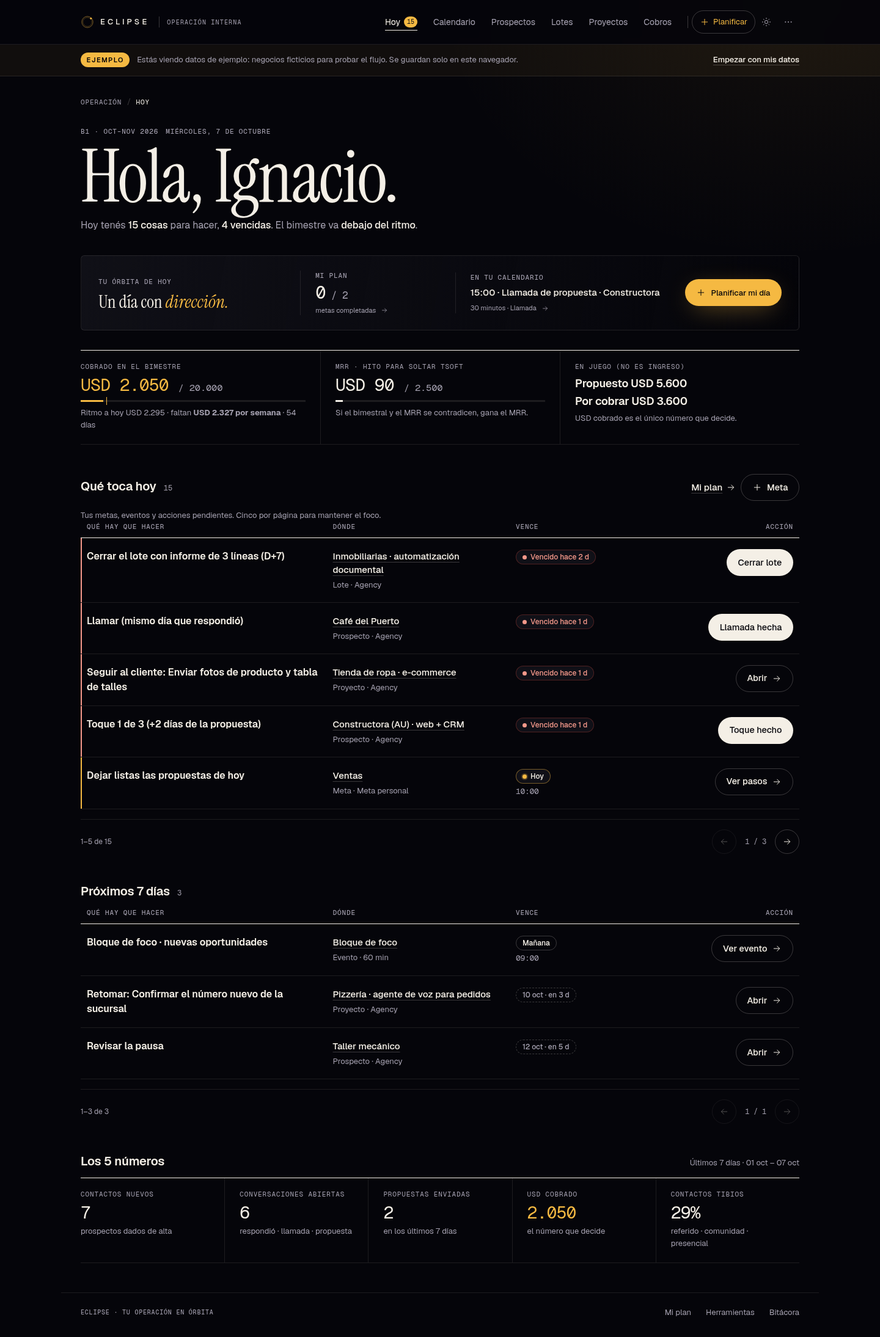
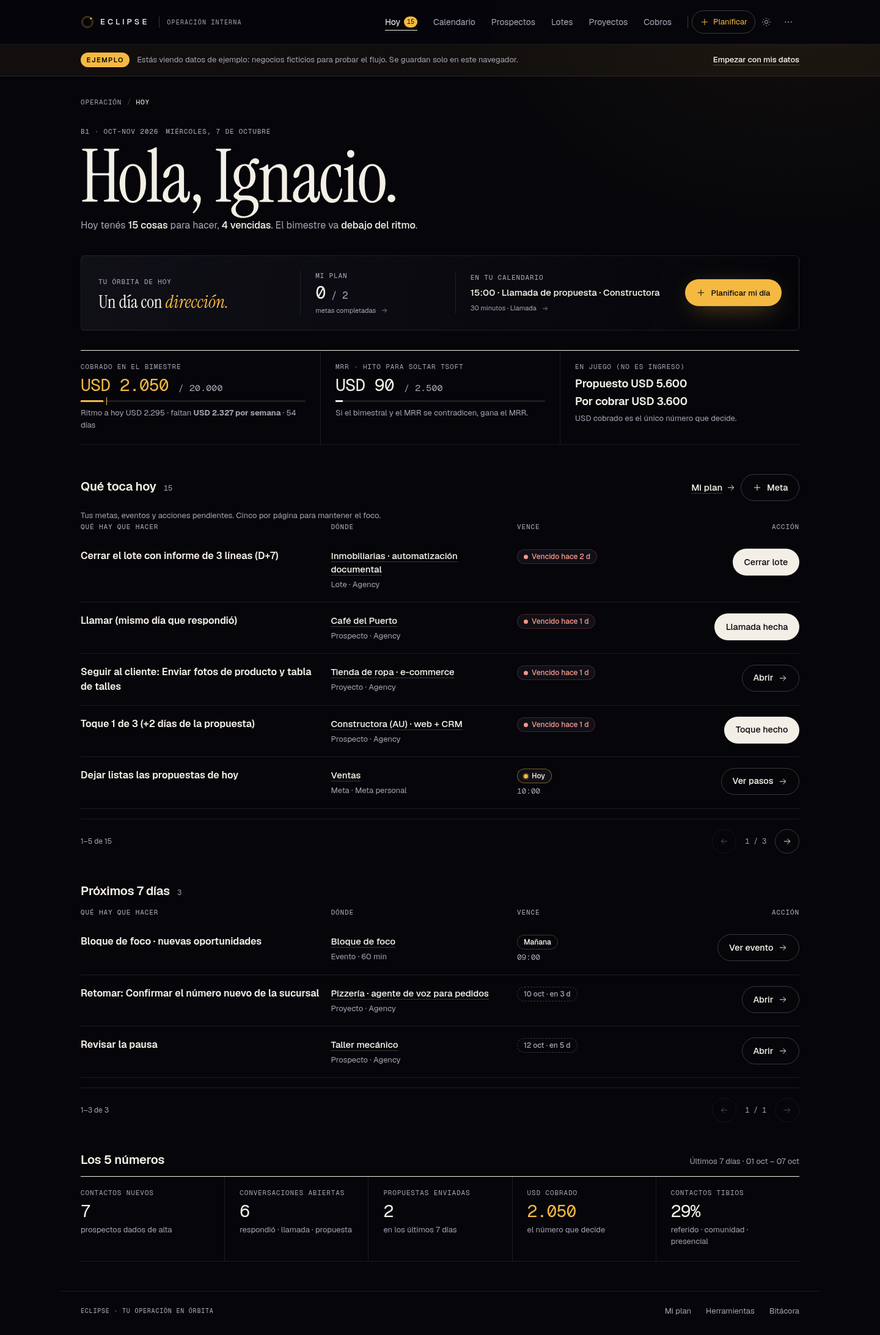
Polish daily agenda and document Eclipse backend deployment

diff --git a/src/app.js b/src/app.js
@@ -224,8 +224,8 @@ function agendaButton(item) {
 
 function agendaRows(items) {
   const cols = "minmax(0,1.5fr) minmax(0,1.1fr) minmax(0,.7fr) minmax(0,1fr)";
-  return `<div class="pt-rows-head" style="--cols:${cols}"><span class="label">Qué hay que hacer</span><span class="label">Dónde</span><span class="label">Vence</span><span class="label" style="text-align:right">Acción</span></div>
-  <ul class="pt-rows">${items.map((item) => {
+  return `<div class="pt-rows-head agenda-rows-head" style="--cols:${cols}"><span class="label">Qué hay que hacer</span><span class="label">Dónde</span><span class="label">Vence</span><span class="label" style="text-align:right">Acción</span></div>
+  <ul class="pt-rows agenda-rows">${items.map((item) => {
     const [route, type] = ENTITY[item.entity];
     return `<li class="pt-row" style="--cols:${cols}"${item.delta < 0 ? " data-late" : item.delta === 0 ? " data-turn" : ""}>
       <div><span class="pt-row-name">${esc(item.title)}</span></div>

diff --git a/workspace.css b/workspace.css
@@ -42,6 +42,10 @@
   color-scheme: light;
 }
 html, body { background: var(--bg); }
+.agenda-rows, .agenda-rows-head { border-top: 0; border-bottom: 0; }
+.agenda-rows .pt-row[data-late], .agenda-rows .pt-row[data-turn] { box-shadow: none; padding-left: 0; }
+.agenda-rows .pt-row { padding-left: 0; padding-right: 0; }
+.agenda-rows-head { padding-inline: 0; }
 body { line-height: 1.5; }
 .pt-header { background: var(--header-bg); }
 .pt-main { padding-bottom: 48px; }

diff --git a/docs/backend-prompt.md b/docs/backend-prompt.md
@@ -1,0 +1,125 @@
+# Prompt para implementar el backend de Eclipse
+
+Copiá el bloque siguiente en una sesión con acceso a **Eclipse-internal-portal** y **Eclipse-Web**, y a un repositorio nuevo **Eclipse-Backend**. Los archivos en [env/](env/) son ejemplos dummy para la implementación futura; no crean usuarios ni conectan la versión actual. La decisión final es usar **WhatsApp manual**, sin emails.
+
+---
+
+Actuá como desarrollador responsable de implementar y conectar el backend real de Eclipse. Completá el trabajo en código, con migraciones, pruebas, documentación y PRs concretas. Antes de editar, leé los AGENTS.md de cada repositorio y sus instrucciones locales. Conservá la estética y los flujos ya implementados.
+
+## Contexto y resultado esperado
+
+Hay dos frontends existentes:
+
+1. **Toti-Gauna/Eclipse-internal-portal**: HTML, CSS y JavaScript nativo, sin framework. `src/app.js` coordina las pantallas y mutaciones; `src/rules.js` contiene las reglas de negocio; `src/planner.js`, las metas, el calendario y los timestamps; `src/generators.js`, los generadores por pasos; `src/workspace-ui.js`, el plan, calendario, herramientas y bitácora. `src/data/store.js` usa localStorage con clave `eclipse-ops-v2`, datos y respaldos versión 3. No reemplaces el portal por una app nueva.
+2. **Toti-Gauna/Eclipse-Web**: Next.js, React y next-intl, con exportación estática. Revisá las versiones del package.json y la documentación instalada antes de cambiarlo. El login en `components/portal/LoginForm.tsx` es una demostración; los proyectos salen de `lib/portal/fixtures.ts`. Las rutas son `app/[locale]/portal/page.tsx`, `portal/proyectos/page.tsx` y `portal/proyectos/[id]/page.tsx`. Conectá estas vistas a datos autenticados, manteniendo el sitio público, las traducciones, el loader y el diseño. No publiques datos reales de clientes en fixtures o HTML prerenderizado.
+
+Creá **Eclipse-Backend** con Node.js 22, TypeScript, Express, PostgreSQL y Prisma, usando versiones compatibles verificadas al implementar y lockfile. PostgreSQL persistente es la fuente de verdad. Los frontends deben leer y modificar los mismos proyectos: un avance cargado por el admin debe verse en el portal del cliente correcto después de guardar y recargar. No prometas tiempo real si implementás refetch; eso alcanza para esta primera versión.
+
+El plan actual de Hostinger del propietario **no permite Node.js**, confirmado por su captura de hPanel. Prioridad de despliegue: frontends estáticos en Hostinger y backend Node.js en **Render**, con base PostgreSQL persistente. Prepará también instrucciones para Hostinger Business/Cloud si se cambia de plan. Render gratuito sirve para pruebas con sus limitaciones; no uses un filesystem efímero o una base gratuita que expira como almacenamiento de producción. No asumas que Hostinger incluye PostgreSQL: usá un proveedor compatible o indicá una alternativa concreta si el plan cambia.
+
+## Autenticación y cuentas con contraseña asignada
+
+El propietario asigna un email y una contraseña inicial distinta a cada admin/cliente. No hay registro público ni emails de alta o recuperación. Los emails son identificadores de login. Las contraseñas y los secretos deben existir **solo en el backend**, nunca en .env del frontend, NEXT_PUBLIC_*, HTML, JavaScript, JSON público o GitHub.
+
+Usá como contrato los ejemplos dummy de `docs/env/backend.env.example`, `internal.env.example` y `client.env.example` del repo interno. Escribí `.env.example` reales y documentados en cada repo; el usuario reemplazará los valores a mano al desplegar. Los ejemplos son:
+
+```text
+Admin:   admin@example.invalid   / Dummy_Admin_Cambiar_2026!
+Cliente: cliente@example.invalid / Dummy_Cliente_Cambiar_2026!
+```
+
+Solo un comando administrativo de aprovisionamiento lee `BOOTSTRAP_USERS_JSON` del .env privado del backend para crear usuarios ausentes. Guardá hashes **Argon2id**, nunca contraseñas en texto plano en la DB. No ejecutes ese comando automáticamente en cada arranque; no sobrescribas hashes, no reactives cuentas y no restaures contraseñas iniciales al redeployar. Detectá duplicados y roles/clientId inválidos. El seed de desarrollo crea `cliente-demo` antes del bootstrap dummy; en producción asigná un cliente existente o crealo mediante un comando explícito. Eliminá el secreto de bootstrap después de aprovisionar en producción. Proporcioná un comando seguro para crear o rotar credenciales de usuarios nuevos; un cambio posterior en .env por sí solo no debe resetear cuentas.
+
+La contraseña inicial debe cambiarse en el primer acceso, invalidando las sesiones previas. Implementá cambio autenticado de contraseña y recuperación por intervención del admin; no agregues SMTP. En producción rechazá valores dummy, secretos débiles, cookies inseguras y modo demo habilitado. Para desarrollo usá un nombre de cookie sin prefijo __Host- cuando `SESSION_SECURE=false`; ese prefijo requiere Secure en producción.
+
+Implementá sesiones opacas aleatorias con almacenamiento en DB, expiración, revocación y rotación al autenticar. Guardá un hash del token de sesión. Cookie HttpOnly, Secure en producción, Path=/, sin Domain; SameSite=Lax cuando las tres aplicaciones estén bajo el mismo dominio registrable. Los fetch autenticados usan `credentials: 'include'`.
+
+Para producción proponé `interno.dominio.com`, `www.dominio.com` para el cliente y `api.dominio.com` apuntando a Render. Así evitamos depender de cookies de terceros entre github.io y onrender.com. No prometas que SameSite=None soluciona Safari: Pages se usa para revisar el frontend con ejemplos. Si se exige probar autenticación desde orígenes distintos, documentá y probá esa configuración o implementá un gateway del mismo sitio.
+
+Validá Origin y un token CSRF para mutaciones; CORS permite únicamente los orígenes configurados, nunca '*' con credenciales. CORS no sustituye autenticación. Rate limit persistente para login y endpoints sensibles, errores de login genéricos, límites de tamaño, validación estricta de entradas, consultas parametrizadas, cabeceras de seguridad y logs sin contraseñas ni tokens. Configurá trust proxy según el hosting real; no confíes indiscriminadamente en X-Forwarded-For.
+
+No se necesita Cloudflare Pro para esto. HTTPS, sesiones, autorización y validación deben funcionar por sí mismos. Cloudflare puede ser una capa adicional futura.
+
+## Roles y aislamiento por cliente
+
+Roles iniciales: `admin` y `client`. El admin opera prospectos, lotes, proyectos, cobros, abonos, metas, calendario y bitácora. Un cliente accede solamente a sus proyectos y sus actualizaciones publicadas.
+
+Todas las consultas de cliente filtran por el `clientId` de la sesión en el servidor. No confíes en un clientId enviado por el navegador. Cambiar un ID en una URL no debe permitir ver o modificar otro cliente. No uses el código ECL-xxx como contraseña. Los DTO públicos se construyen con listas permitidas de campos; no serialices el registro interno completo.
+
+Quedan internos los prospectos, lotes, calculadoras, informes, márgenes, cobros detallados, MRR, metas personales, calendario privado, bitácora administrativa y notas internas. El cliente puede ver etapas, hitos, entrega estimada, acciones que le pedimos y actualizaciones publicadas. Conservá los importes públicos que el diseño actual del portal ya muestre, después de revisar sus tipos. Definí explícitamente `internalNote` y `publicBody`; los datos de cobros internos no entran en la timeline del cliente.
+
+## Modelo de datos y reglas a conservar
+
+Diseñá migraciones para usuarios, clientes, sesiones, prospectos, eventos de prospectos, lotes, señales e informes, proyectos, historial de etapas, hitos, acciones del cliente, actualizaciones, cobros, abonos, metas, subtareas, eventos de calendario, audit_log y registros de comunicación manual por WhatsApp. Usá relaciones, claves únicas e índices para búsquedas, ownership y orden cronológico. Guardá dinero en unidades mínimas enteras o Decimal; nunca floats para sumas financieras. Conservá USD y las unidades Eclipse del frontend.
+
+Las cinco etapas son Preparación → Construcción → Revisión de Eclipse → Revisión del cliente → Entrega, con estados adicionales Soporte, En pausa y Cerrado. Se crea un proyecto al registrar seña, en una transacción que incluye proyecto, cobro y primer avance. La seña no supera el total, el hito no antecede al inicio y la entrega estimada no antecede al hito. Conservá cierre entrega → saldo → referido en 48 h → Soporte con mantenimiento o Cerrado. Mantener la cadencia de lotes configurable y las reglas de propuestas/toques del módulo actual; no reescribir reglas sin pruebas equivalentes.
+
+Las metas personales conservan subtareas: completar todas completa la meta; reabrir una o agregar un pendiente la reabre. Su vínculo a un proyecto no las publica automáticamente al cliente. El calendario integra las metas, hitos y vencimientos, con eventos editables y detección de solapamientos. Cinco ítems por página en las agendas y listas que ya tienen paginado.
+
+Para toda actividad o mutación persistí `occurredAt` en UTC, `recordedAt` desde reloj del servidor, zona horaria, actor y entidad. Las fechas de planificación siguen siendo días locales. Diferenciá hora prevista del hito y hora de registro. Ordená las timelines del más antiguo al más reciente, con un desempate estable por ID/orden de creación. Preservá los datos antiguos sin hora con «Hora no registrada»; no inventes timestamps históricos.
+
+El audit_log lo crea el servidor en la misma transacción que la mutación. No aceptes actor ni recordedAt del frontend. Protegé registros de auditoría contra edición por endpoints normales. Documentá los límites de integridad: no prometas que un log en una DB bajo control del admin es criptográficamente inalterable. Usá control de concurrencia (versión/updatedAt) y claves de idempotencia para evitar doble seña o cobro al repetir una solicitud.
+
+## API y conexión de ambos frontends
+
+Creá OpenAPI y un contrato versionado `/api/v1`, con validación compartida o DTOs explícitos. Como mínimo:
+
+```text
+POST /auth/login               GET /auth/me
+POST /auth/logout              POST /auth/password
+GET/POST /admin/clients        POST /admin/users (sin devolver contraseñas persistidas)
+GET/POST/PATCH /admin/prospects, /admin/batches, /admin/projects
+POST /admin/projects/:id/advance, /pause, /resume, /deliver
+POST /admin/projects/:id/updates, /milestones, /client-actions
+GET/POST/PATCH /admin/payments, /admin/subscriptions
+GET/POST/PATCH/DELETE /admin/goals, /admin/calendar-events
+PATCH /admin/goals/:id/steps/:stepId
+GET /admin/agenda              GET /admin/audit
+POST /admin/import/preview     POST /admin/import/commit
+GET /admin/export
+GET /client/projects          GET /client/projects/:id
+GET /client/projects/:id/updates
+GET /health (estado básico, sin configuración ni datos privados)
+```
+
+Los comandos de etapas, cobros y subtareas deben estar validados en el servidor. Los endpoints de cliente no aceptan mutaciones administrativas. Si necesitás otros endpoints para conservar una función existente, agregalos y documentalos. Paginación, filtros y límites de consulta aplicados en servidor; respuestas y errores uniformes.
+
+En el portal interno introducí un repositorio/adaptador de datos, una sesión de admin y estados de carga/error. Adaptá las mutaciones actuales a comandos de API esperados y esperados con await; solo mostrás éxito después de confirmar persistencia. No hagas fallback silencioso a localStorage cuando falle la API: eso hace creer que un cambio se sincronizó. Conservá un modo demo explícito separado, únicamente para Pages y desarrollo, con ejemplos ficticios. La API de producción nunca acepta datos demo como credenciales.
+
+El .env del frontend interno solo contiene PUBLIC_API_BASE_URL, PUBLIC_PORTAL_MODE, PUBLIC_CLIENT_PORTAL_URL y PUBLIC_WHATSAPP_MODE. Como hoy no hay build, implementá un pequeño paso que genera `public-config.json` o un módulo de configuración desde esa lista permitida; no publiques .env ni copies todas las variables del proceso. En Eclipse-Web usá únicamente NEXT_PUBLIC_* para URLs y flags públicos. El email y password que se escriben en la pantalla de login se envían al backend por HTTPS, no se comparan contra valores del bundle.
+
+En Eclipse-Web reemplazá fixtures de producción por fetch autenticados y estados de sesión, carga, vacío y error. Protegé las rutas y verificá `/auth/me` antes de cargar proyectos. Logout limpia la UI y revoca la sesión. Un 401 devuelve al login. Los datos reales no deben quedar en el bundle exportado ni en páginas estáticas. No uses tokens en localStorage.
+
+## WhatsApp manual como único canal de comunicación
+
+No implementes email, Nodemailer, SMTP, plantillas de correo, magic links por email ni credenciales de proveedores de correo. Mantené la comunicación con clientes por WhatsApp, iniciada por el admin.
+
+Permití guardar un teléfono en formato internacional E.164 por cliente y preparar texto para hito, actualización, acción o cambio de etapa. El admin revisa el destinatario y el mensaje antes de abrir `https://wa.me/<número>?text=<texto codificado>`. Incluí el enlace del portal del cliente y la información publicada correspondiente; nunca notas internas, contraseñas ni tokens de sesión. Para teléfonos argentinos documentá cómo ingresarlos correctamente, sin agregar prefijos por suposición.
+
+Abrir WhatsApp no significa que el mensaje se envió o se entregó. Registrá `prepared` / `opened` como estados comprobables; si el admin confirma manualmente «Enviado», almacenalo como una declaración manual con fecha, hora y actor, sin inventar comprobante de entrega. Sin WhatsApp Business API, webhooks, bots ni automatizaciones no solicitadas. Prepará el diseño para un proveedor futuro, pero no lo agregues ahora.
+
+## Migración desde localStorage y respaldos
+
+Implementá importación administrativa de respaldos v1/v2/v3 con preview y validación antes de guardar. Conservá IDs y relaciones, timestamps existentes, subtareas realizadas y eventos completados. Asigná explícitamente los proyectos importados a clientes: los respaldos actuales no tienen ownership real. La importación es transaccional e idempotente, con reporte de registros rechazados y sin sobrescribir datos existentes por defecto. Exportá un respaldo antes de migrar y no borres localStorage hasta comprobar el resultado. No trates un campo example del JSON como prueba de que el usuario quiso importar datos ficticios; hacé visible esa condición.
+
+## Despliegue y operación
+
+Entregá instrucciones ejecutables para desarrollo, staging y producción. El backend usa process.env.PORT y escucha en 0.0.0.0; maneja apagado ordenado, conexiones DB y errores sin filtrar secretos. Scripts de build/start, migraciones y bootstrap separados. `.env` siempre ignorado por Git; `.env.example` contiene solo dummy. Nunca subir .env a public_html ni a GitHub Pages.
+
+Ruta A actual: repo backend preferentemente privado, conectado a Render mediante permisos de GitHub; Web Service Node y PostgreSQL persistente compatible, TLS y dominio api.dominio.com. Frontends estáticos en Hostinger apuntando a ese dominio. Documentá build/start reales y orden de migraciones, variables, DNS y prueba de salud. No despliegues producción ni cargues credenciales reales sin autorización para esas acciones.
+
+Ruta B si se mejora el plan: Node.js App en Hostinger Business/Cloud, GitHub privado o ZIP, variables privadas del backend en el panel y DB persistente compatible. Los exports estáticos de los frontends van a sus propios sitios. Verificá disponibilidad del runtime y límites del plan antes de afirmar compatibilidad.
+
+Un repo privado protege acceso al código fuente. Una API HTTPS pública es necesaria para que los navegadores la consuman y debe rechazar solicitudes no autorizadas. La DB no se expone directamente al navegador. Si se opta por un backend privado en red, requiere un gateway/BFF público autenticado; no puede consumirse directamente desde un frontend estático. No uses una API key compartida en el frontend para «ocultar» la API. Proporcioná backups y un procedimiento probado de restauración; no guardes la DB en el disco efímero de Render.
+
+## Validación y entregables
+
+Probá login/logout, expiración y revocación, cambio inicial de contraseña, no reseteo de cuentas al redeploy, rate limit, CSRF, autorizaciones admin/client y aislamiento de al menos dos clientes. Probá ID de proyecto ajeno, mutación administrativa desde cliente y que cobros/notas internas no aparecen en DTOs de cliente. Probá importación v1/v2/v3, doble click/idempotencia en cobros, cronología con horas y sin horas antiguas, subtareas y reapertura, y conservar reglas financieras.
+
+Recorrido completo en navegador: admin inicia sesión → crea cliente/proyecto con seña → publica hito/actualización → cliente inicia sesión y ve solo su proyecto → admin prepara WhatsApp y abre enlace → cliente cierra sesión y pierde acceso. Revisá ambos temas y móvil/tablet/escritorio. Verificá el bundle y los exports de ambos frontends para confirmar que no contienen contraseñas, SESSION_SECRET, DATABASE_URL, bootstrap ni datos privados.
+
+Entregá código funcional en los tres repositorios, migraciones, OpenAPI, ejemplos de entorno, scripts reproducibles, pruebas pasadas y README de despliegue. Abrí PRs sin mergear y reportá límites reales y tareas operativas pendientes. El resultado debe poder ejecutarse localmente con datos dummy y quedar listo para que el propietario configure los valores reales y despliegue a mano.
+
+---
+
+Ver también [decisión de hosting y configuración](hosting.md).

diff --git a/docs/hosting.md b/docs/hosting.md
@@ -1,0 +1,52 @@
+# Backend, hosting y credenciales de Eclipse
+
+Decisión actual: **WhatsApp manual**, sin email ni SMTP. El sitio de esta PR sigue siendo estático y con localStorage. El [prompt del backend](backend-prompt.md) define la implementación futura; los ejemplos de entorno todavía no se consumen por el código actual.
+
+## Qué permite Hostinger
+
+La captura de hPanel compartida por el propietario indica que su plan actual no permite ejecutar el backend Node.js. La documentación oficial permite Node.js en **Business Web Hosting y Cloud**, además de VPS. Se puede alojar un backend allí después de mejorar el plan; el hosting actual puede seguir sirviendo los frontends estáticos. Tener una casilla o un plan llamado «Unlimited» no habilita por sí solo un proceso Node.js.
+
+Fuente: [opciones de Node.js en Hostinger](https://www.hostinger.com/support/node-js-hosting-options-at-hostinger/), consultada el 7 de octubre de 2026. Confirmar las prestaciones concretas en hPanel antes de contratar o cambiar de plan.
+
+## Opción recomendada con el plan actual
+
+| Parte | Alojamiento | Qué contiene |
+|---|---|---|
+| Portal interno | Hostinger estático; Pages para revisión con ejemplos | UI, login y URL pública de API |
+| Portal del cliente / sitio público | Hostinger, export estático de Eclipse-Web | UI pública, login y datos obtenidos tras autenticación |
+| Backend Node.js | Render Web Service | Sesiones, autorización, reglas y API |
+| Base de datos | PostgreSQL persistente compatible | Usuarios con hashes, proyectos, cobros, metas y auditoría |
+
+Para probar puede usarse Render gratuito, contemplando su arranque tras inactividad. Para producción se recomienda un servicio sin suspensión y una base persistente con backups. Render gratuito pierde archivos locales al reiniciar/redeployar y su PostgreSQL gratuito **expira a los 30 días**. No almacenar la operación real en SQLite local o en esa base temporal. [Límites oficiales de Render gratuito](https://render.com/docs/free).
+
+Usar subdominios del mismo dominio registrable, por ejemplo `interno.tudominio.com`, `www.tudominio.com` y `api.tudominio.com` (el último apunta a Render), simplifica el manejo de cookies. Pages en `github.io` se reserva para la demostración visual; autenticarlo contra `onrender.com` puede depender de cookies de terceros y fallar en algunos navegadores.
+
+## Repos privados, API pública y datos privados
+
+La privacidad del repo controla quién ve el código fuente. No controla quién puede pedir una URL de la API. Hostinger admite despliegue desde repos privados mediante integración GitHub en sus planes Node.js: [guía oficial, comparación GitHub/ZIP](https://www.hostinger.com/tutorials/how-to-deploy-a-codex-app/).
+
+Los navegadores necesitan alcanzar la API HTTPS. Una API accesible públicamente debe verificar sesión, rol y propiedad del proyecto en **cada solicitud**. Sin sesión, responde 401; sin permisos, 403 o 404 sin filtrar datos. El cliente A no obtiene proyectos del cliente B cambiando un ID. La DB se mantiene accesible solo desde el backend. Rate limits, validación y CSRF complementan estas verificaciones; CORS y una URL difícil de adivinar no reemplazan permisos.
+
+También puede existir un servicio backend privado, pero exige un gateway público autenticado para los frontends. [Servicios privados de Render](https://render.com/docs/private-services). Para esta primera versión alcanza una API pública autenticada y una DB protegida. No hace falta Cloudflare Pro para implementar estas bases; no existe una garantía de «imposible de vulnerar» por elegir un repo privado.
+
+## Qué editar en los entornos
+
+| Archivo de ejemplo | Dónde se usa después de implementar | Valores |
+|---|---|---|
+| [backend.env.example](env/backend.env.example) | `.env` privado del backend o variables del panel | DB, secreto de sesión, orígenes y bootstrap admin/cliente dummy |
+| [internal.env.example](env/internal.env.example) | Configuración del frontend interno | URL pública de API, portal del cliente y flags |
+| [client.env.example](env/client.env.example) | `.env.local` de Eclipse-Web | Variables NEXT_PUBLIC_* con URL pública de API y flags |
+
+Las contraseñas **no van en ningún frontend**, aunque el repo sea privado: el navegador descarga ese código. Un .env no convierte en secreta una variable usada en el bundle; NEXT_PUBLIC_* se publica expresamente. El frontend interno actual no lee .env. Su futuro build generará configuración pública desde una lista permitida, sin copiar el archivo de secretos.
+
+Los ejemplos dummy son `admin@example.invalid / Dummy_Admin_Cambiar_2026!` y `cliente@example.invalid / Dummy_Cliente_Cambiar_2026!`, exclusivamente en el contrato del backend. Al implementar, se aprovisionan una vez y se guardan hashes en la DB. Cambiar el .env posteriormente no debe recrear cuentas ni sobrescribir sus contraseñas. La contraseña inicial se cambia al entrar y las altas/rotaciones posteriores se hacen con un comando administrativo o una pantalla protegida.
+
+## Despliegue después de implementar
+
+1. Crear la DB persistente, configurar conexión TLS y backups.
+2. Conectar el repo privado del backend al proveedor. Configurar variables privadas, build, start y PORT según su documentación; ejecutar migraciones y bootstrap administrativo.
+3. Configurar dominio `api.tudominio.com`, HTTPS y los dos orígenes permitidos. Probar health y login.
+4. Configurar las URLs públicas de los frontends, construir/exportar y subir solo los artefactos estáticos a Hostinger. No subir `.env`, fixtures reales ni secretos a `public_html`.
+5. Probar dos clientes distintos, roles, cierre de sesión, cambios desde el portal interno, backups/restauración y enlaces manuales de WhatsApp.
+
+El backend todavía no está creado: los comandos exactos de build, migración y bootstrap deberán entregarse con su implementación, usando el prompt incluido.

diff --git a/README.md b/README.md
@@ -57,3 +57,9 @@ npm run test:browser
 Las pruebas de navegador levantan su propio servidor local. Se puede usar un Chromium instalado con `CHROMIUM_PATH=/ruta/a/chromium`. Cubren metas y reapertura, persistencia, paginación, generadores, validaciones, calendario, auditoría, exportación/importación y desbordes en 375 / 768 / 1024 / 1440 px. Las capturas quedan en `test-results/`.
 
 GitHub Actions ejecuta las verificaciones en las PRs. Pages incluye los tres estilos y el arranque de la carga, y versiona estilos y módulos para evitar caché obsoleta. [Revisión visual](docs/visual-review.md).
+
+## Próximo backend y despliegue
+
+Está listo el [prompt para conectar ambos portales con backend y DB](docs/backend-prompt.md), con [opciones de hosting y credenciales](docs/hosting.md) y [ejemplos dummy de entorno](docs/env/). Son documentación para la implementación futura; esta versión sigue guardando datos en el navegador. Los frontends no deben contener contraseñas ni secretos. El canal de comunicación acordado es **WhatsApp manual**, sin emails.
+
+El plan actual de Hostinger no permite Node.js: la opción inmediata es mantener los frontends allí y usar Render para la API con una DB persistente. Si se mejora a Business/Cloud, se puede alojar Node.js en Hostinger. La privacidad del repo no sustituye autenticación y permisos de la API.

diff --git a/docs/visual-review.md b/docs/visual-review.md
@@ -4,7 +4,7 @@ Capturas del portal con datos de ejemplo, hechas en Chromium. Tipografías local
 
 ## Hoy · modo oscuro
 
-Plan del día, metas, calendario y agenda de cinco ítems por página.
+Plan del día, metas, calendario y agenda de cinco ítems por página. La agenda conserva separadores suaves y etiquetas de vencimiento, sin el borde superior ni las líneas laterales de color.
 
 ![Hoy en modo oscuro](preview/hoy-oscuro.png)
 
